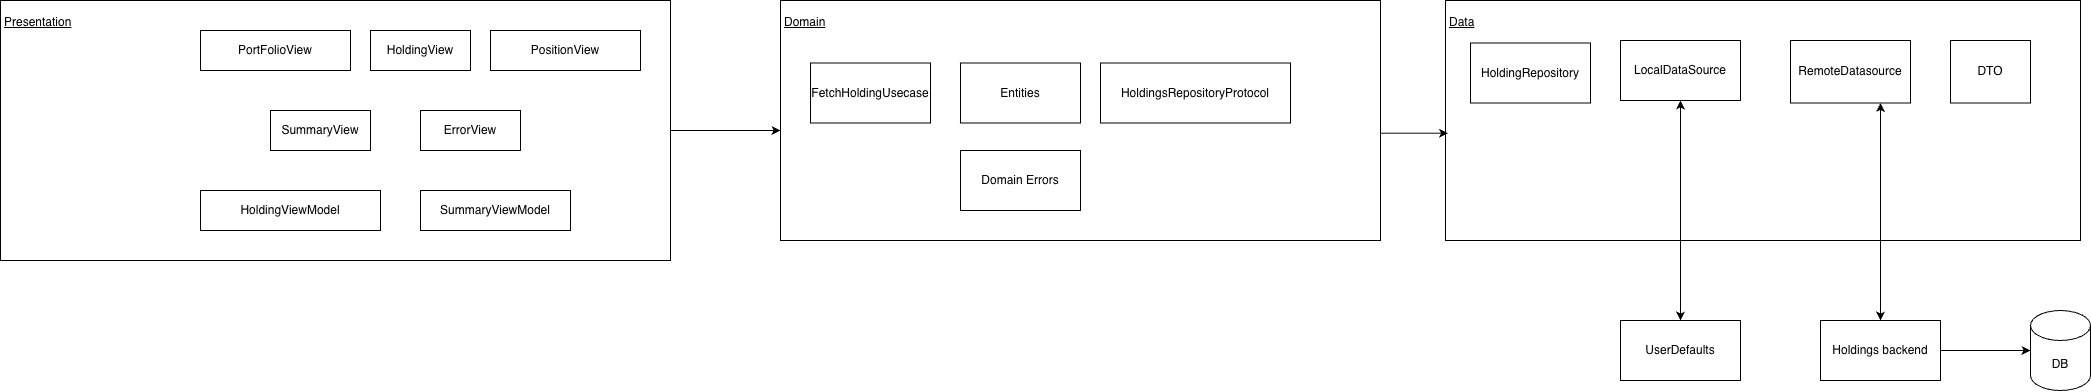
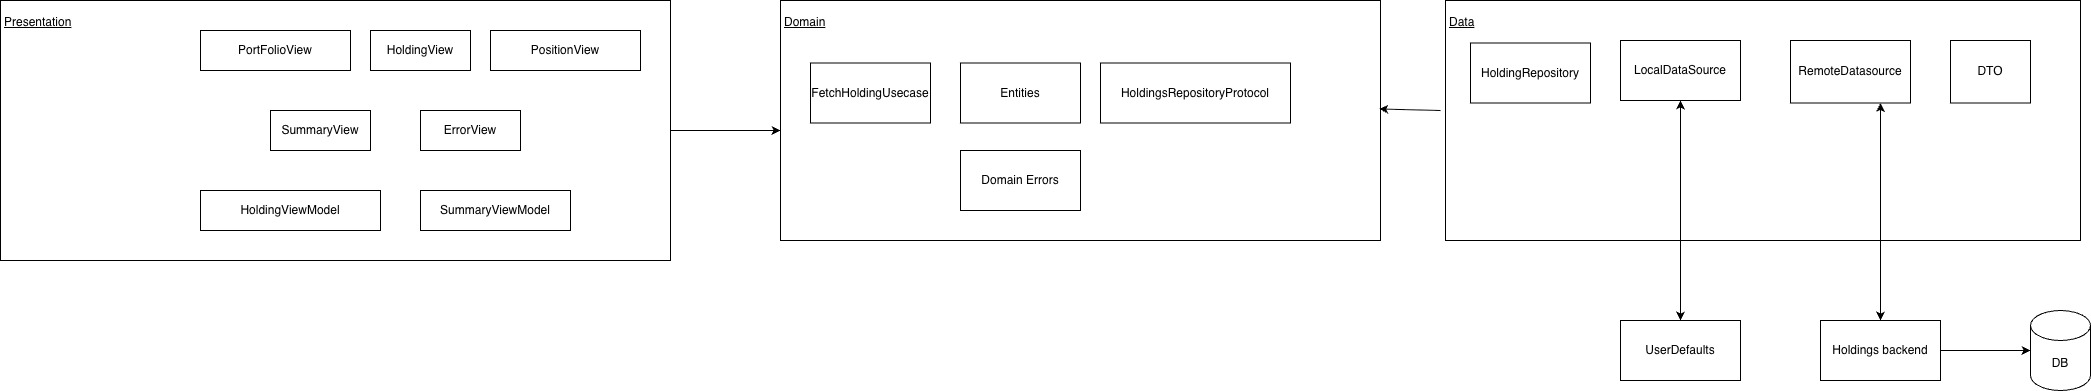
Fixed failing testcase and HLD diagram

diff --git a/SuryaVineeth-DemoTests/HoldingsViewModelTests.swift b/SuryaVineeth-DemoTests/HoldingsViewModelTests.swift
@@ -357,21 +357,33 @@ final class HoldingsViewModelTests: XCTestCase {
     func test_loadHoldings_calledTwice_replacesHoldings() async {
         let first = [Holding(symbol: "INFY", quantity: 1, ltp: 1, avgPrice: 1, close: 1)]
         let second = [Holding(symbol: "TCS", quantity: 1, ltp: 1, avgPrice: 1, close: 1)]
-
+        
         let usecase = FetchHoldingsUsecaseStub(mode: .success(first))
         let formatter = CurrencyFormatterStub()
         let sut = HoldingsViewModel(formatter: formatter, usecase: usecase)
-
+        
+        let firstUpdate = expectation(description: "first holdings update")
+        let secondUpdate = expectation(description: "second holdings update")
+        
+        var updateCount = 0
+        sut.onHoldingsUpdated = {
+            updateCount += 1
+            if updateCount == 1 { firstUpdate.fulfill() }
+            if updateCount == 2 { secondUpdate.fulfill() }
+        }
+        
+        // 1st load
         sut.loadHoldings()
-        await Task.yield()
-
+        await fulfillment(of: [firstUpdate], timeout: 1.0)
+        
         XCTAssertEqual(sut.numberOfHoldings(), 1)
         XCTAssertEqual(sut.cellViewModel(for: 0).symbol, "INFY")
-
+        
+        // 2nd load
         usecase.mode = .success(second)
         sut.loadHoldings()
-        await Task.yield()
-
+        await fulfillment(of: [secondUpdate], timeout: 1.0)
+        
         XCTAssertEqual(sut.numberOfHoldings(), 1)
         XCTAssertEqual(sut.cellViewModel(for: 0).symbol, "TCS")
     }
